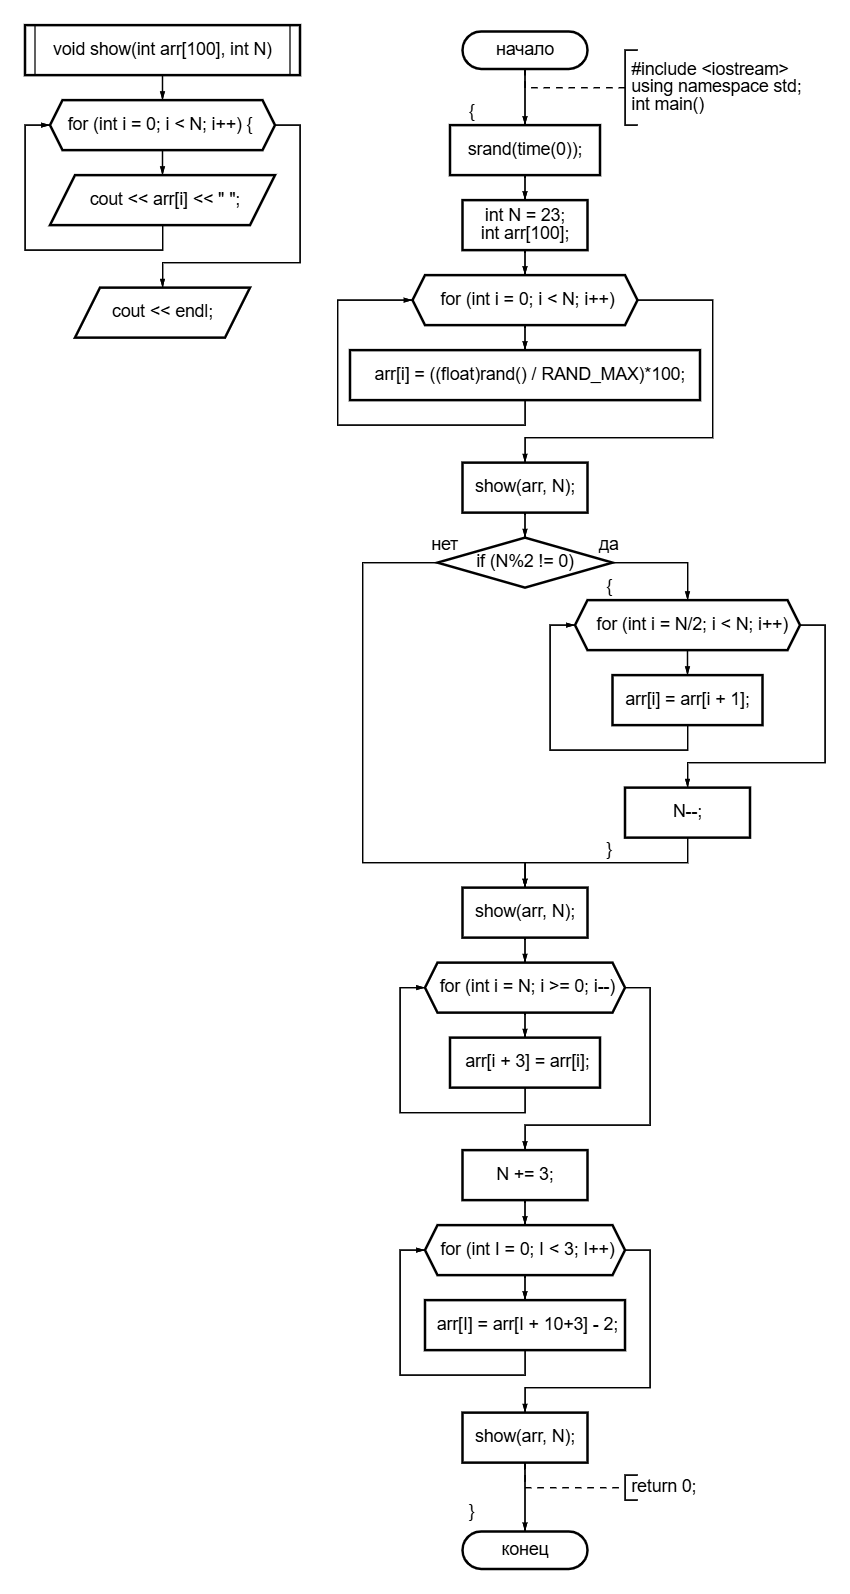
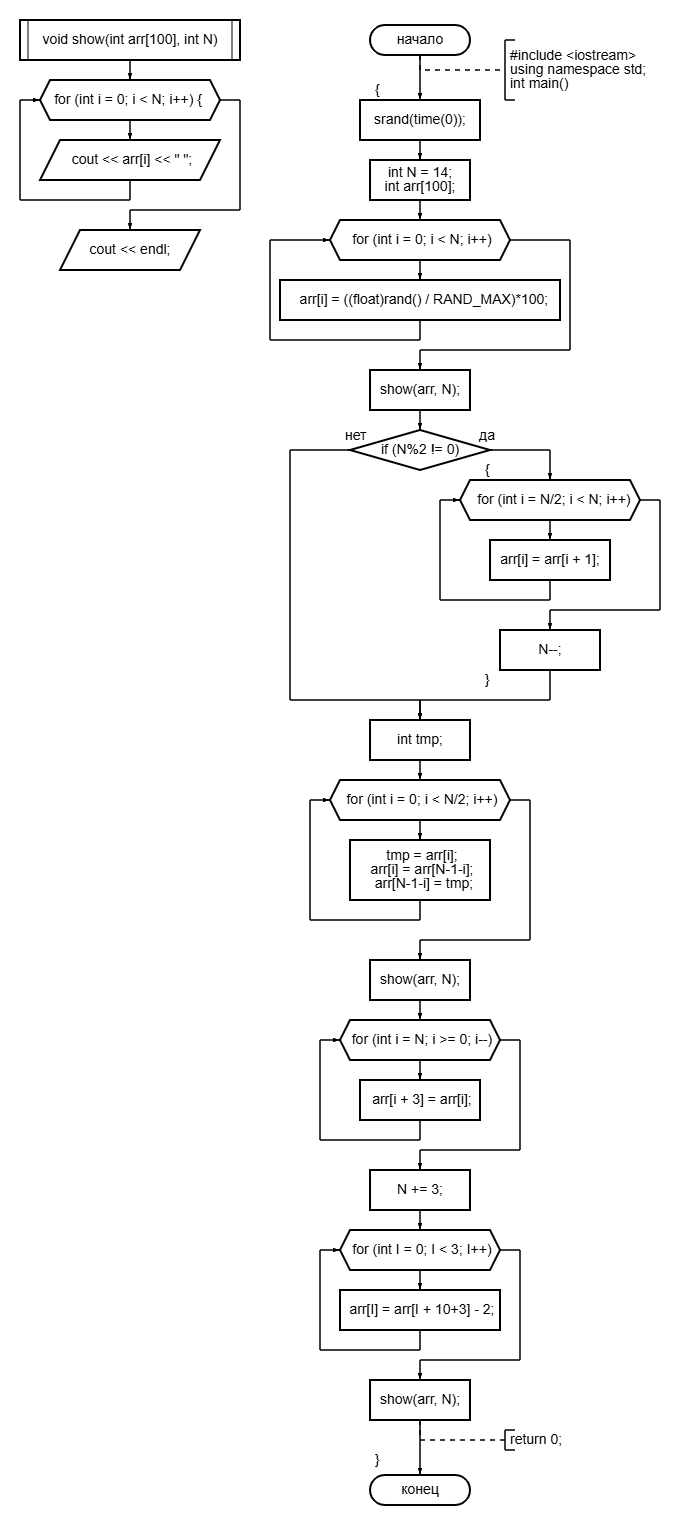
dz

diff --git a/second_semestr/green_arrays_14_variant/code.cpp b/second_semestr/green_arrays_14_variant/code.cpp
@@ -12,21 +12,29 @@ void show(int arr[100], int N) {
 int main() {
 	srand(time(0));
 
-	int N = 23; 
+	int N = 14;
 	int arr[100];
 
 
-	for (int i = 0; i < N; i++) 
-		arr[i] = ((float)rand() / RAND_MAX)*100;
+	for (int i = 0; i < N; i++) {
+		arr[i] = ((float)rand() / RAND_MAX) * 100;
 	}
 	show(arr, N);
 
-
+	 
 	if (N%2 != 0) {
 		for (int i = N/2; i < N; i++) {
 			arr[i] = arr[i + 1]; 
 		}
 		N--;
+	}
+
+
+	int tmp;
+	for (int i = 0; i < N/2; i++) {
+		tmp = arr[i];
+		arr[i] = arr[N-1-i];
+		arr[N-1-i] = tmp;
 	}
 	show(arr, N);
 
